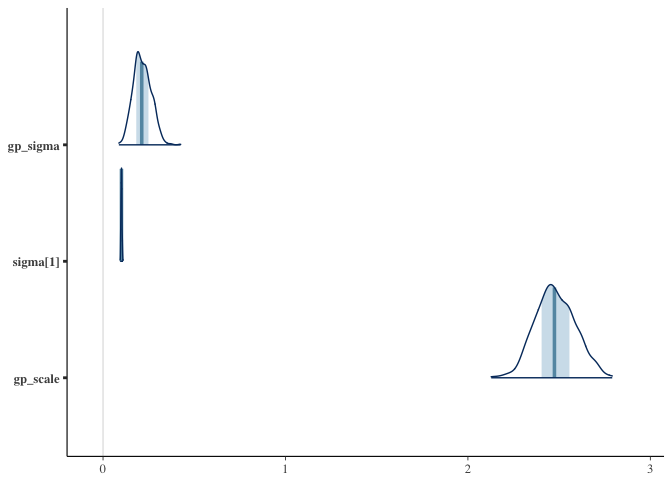
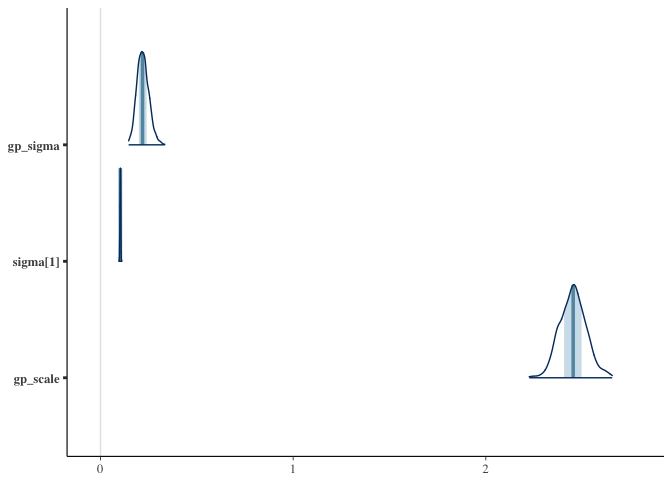
Cleanup and remake readme

diff --git a/README.md b/README.md
@@ -2,8 +2,7 @@
 rrfields
 ========
 
-[![Travis-CI Build Status](https://travis-ci.org/seananderson/rrfields.svg?branch=master)](https://travis-ci.org/seananderson/rrfields) [![AppVeyor Build Status](https://ci.appveyor.com/api/projects/status/github/seananderson/rrfields?branch=master&svg=true)](https://ci.appveyor.com/project/seananderson/rrfields) 
-<!-- [![codecov](https://codecov.io/github/seananderson/rrfields/branch/master/graphs/badge.svg)](https://codecov.io/github/seananderson/rrfields) -->
+[![Travis-CI Build Status](https://travis-ci.org/seananderson/rrfields.svg?branch=master)](https://travis-ci.org/seananderson/rrfields) [![AppVeyor Build Status](https://ci.appveyor.com/api/projects/status/github/seananderson/rrfields?branch=master&svg=true)](https://ci.appveyor.com/project/seananderson/rrfields) <!-- [![codecov](https://codecov.io/github/seananderson/rrfields/branch/master/graphs/badge.svg)](https://codecov.io/github/seananderson/rrfields) -->
 
 The rrfields R package implements spatiotemporal models that allow for extreme spatial deviations through time. It uses a predictive process approach with random fields implemented through a multivariate-t distribution instead of a multivariate normal. The models are fit with [Stan](http://mc-stan.org/).
 
@@ -21,17 +20,17 @@ Simulate data:
 
 ``` r
 library(rrfields)
-set.seed(123)
-s <- sim_rrfield(df = 3, n_draws = 8, n_knots = 10, gp_scale = 2.5, 
+set.seed(1)
+s <- sim_rrfield(df = 2, n_draws = 15, n_knots = 12, gp_scale = 2.5, 
   gp_sigma = 0.2, sd_obs = 0.1)
 head(s$dat)
-#>   time pt           y      lon      lat
-#> 1    1  1 -0.09253272 2.875775 5.999890
-#> 2    1  2  0.15315838 7.883051 3.328235
-#> 3    1  3 -0.49238502 4.089769 4.886130
-#> 4    1  4 -0.04127106 8.830174 9.544738
-#> 5    1  5  0.12187644 9.404673 4.829024
-#> 6    1  6  0.01634340 0.455565 8.903502
+#>   time pt           y      lon      lat station_id
+#> 1    1  1 0.562277290 2.655087 6.547239          1
+#> 2    1  2 0.226782328 3.721239 3.531973          2
+#> 3    1  3 0.024898812 5.728534 2.702601          3
+#> 4    1  4 0.004810619 9.082078 9.926841          4
+#> 5    1  5 0.440714012 2.016819 6.334933          5
+#> 6    1  6 0.172293349 8.983897 2.132081          6
 ```
 
 ``` r
@@ -45,23 +44,31 @@ Fit the model:
 ``` r
 options(mc.cores = parallel::detectCores()) # for parallel processing
 m <- rrfield(y ~ 1, data = s$dat, time = "time",
-  lat = "lat", lon = "lon", nknots = 10, iter = 400, chains = 4)
+  lat = "lat", lon = "lon", station = "station_id", nknots = 12, iter = 600)
 ```
 
 ``` r
-pars <- c("df[1]", "gp_sigma", "sigma[1]", "gp_scale")
-print(m, pars = pars)
+print(m)
 #> Inference for Stan model: rrfield.
-#> 4 chains, each with iter=400; warmup=200; thin=1; 
-#> post-warmup draws per chain=200, total post-warmup draws=800.
+#> 4 chains, each with iter=600; warmup=300; thin=1; 
+#> post-warmup draws per chain=300, total post-warmup draws=1200.
 #> 
-#>          mean se_mean   sd 2.5%  25%  50%  75% 97.5% n_eff Rhat
-#> df[1]    3.49    0.13 1.83 2.03 2.37 2.96 3.95  8.37   193 1.02
-#> gp_sigma 0.22    0.00 0.05 0.13 0.18 0.21 0.25  0.31   280 1.01
-#> sigma[1] 0.10    0.00 0.00 0.10 0.10 0.10 0.10  0.11   800 1.00
-#> gp_scale 2.48    0.00 0.11 2.28 2.40 2.47 2.56  2.70   502 1.01
+#>             mean se_mean    sd    2.5%     25%     50%     75%   97.5%
+#> df[1]       2.85    0.02  0.72    2.03    2.31    2.66    3.18    4.69
+#> gp_sigma    0.22    0.00  0.03    0.16    0.20    0.22    0.24    0.29
+#> gp_scale    2.45    0.00  0.07    2.33    2.41    2.45    2.50    2.60
+#> B[1]       -0.03    0.01  0.02   -0.07   -0.04   -0.03   -0.01    0.02
+#> sigma[1]    0.10    0.00  0.00    0.10    0.10    0.10    0.10    0.11
+#> lp__     2773.45    0.55 10.20 2751.60 2766.96 2774.10 2780.34 2792.45
+#>          n_eff Rhat
+#> df[1]     1200 1.00
+#> gp_sigma  1200 1.00
+#> gp_scale  1200 1.00
+#> B[1]        20 1.21
+#> sigma[1]  1200 1.00
+#> lp__       347 1.01
 #> 
-#> Samples were drawn using NUTS(diag_e) at Wed Nov 23 14:30:18 2016.
+#> Samples were drawn using NUTS(diag_e) at Thu Dec  8 14:31:14 2016.
 #> For each parameter, n_eff is a crude measure of effective sample size,
 #> and Rhat is the potential scale reduction factor on split chains (at 
 #> convergence, Rhat=1).
@@ -70,8 +77,15 @@ print(m, pars = pars)
 Plot:
 
 ``` r
+plot(m)
+```
+
+![](README-figs/plot-predictions-1.png)
+
+``` r
 library(bayesplot)
 posterior <- rstan::extract(m$model, inc_warmup = FALSE, permuted = FALSE)
+pars <- c("df[1]", "gp_sigma", "sigma[1]", "gp_scale")
 mcmc_trace(posterior,  pars = pars)
 ```
 
@@ -80,16 +94,10 @@ mcmc_trace(posterior,  pars = pars)
 ``` r
 
 mm <- as.matrix(m$model)
-mcmc_areas(mm, pars = pars[ 1])
+mcmc_areas(mm, pars = pars)
 ```
 
 ![](README-figs/plot-2.png)
-
-``` r
-mcmc_areas(mm, pars = pars[-1])
-```
-
-![](README-figs/plot-3.png)
 
 References
 ==========
